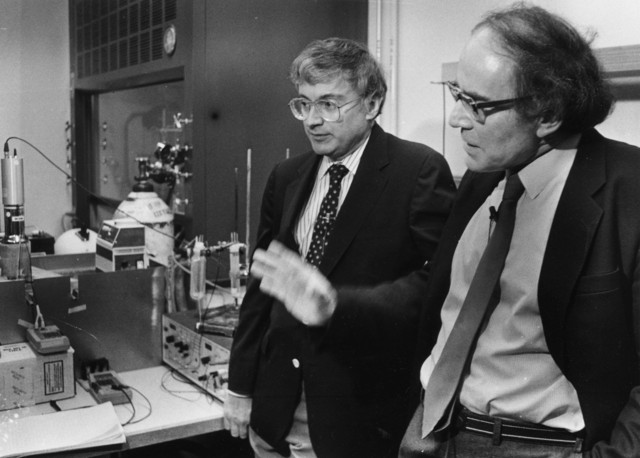
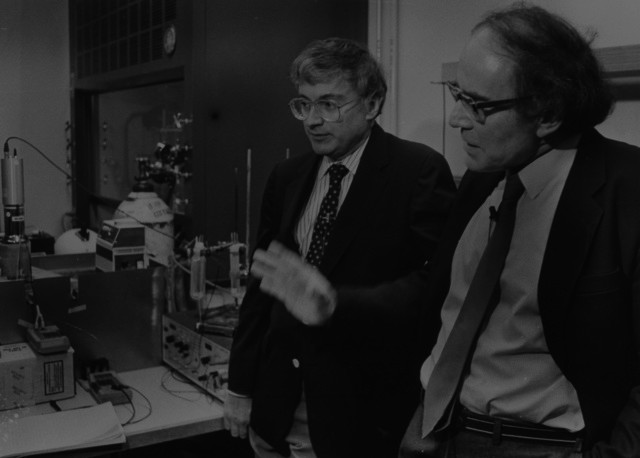
improved intro text, adjusted background image, removed obsolete images.

diff --git a/_includes/header.html b/_includes/header.html
@@ -1,13 +1,32 @@
-<header>
+<header style="height:1000px;">
     <div class="header-content">
         <div class="header-content-inner">
             <h1>Room 1113</h1>
             <hr>
             <p style="color:white;">
                 LENR (Low Energy Nuclear Reactions) a.k.a. "Cold Fusion" is the physical effect to describe
-                the safe release of nuclear energy at very low temperatures compared to the
-                millions of degrees necessary to generate nuclear energy in stars due to the well
-                understood fusion of hydrogen nuclei.
+                the safe release of nuclear energy due to the fusion of atomic nuclei
+                at relatively low temperatures (~1,000°C)
+            </p>
+
+            <p style="color:white;">
+                "Hot Fusion" generates nuclear energy in the interior of stars at very high temperatures (~1,000,000°C).
+            </p>
+
+            <p style="color:white;">
+                While the science behind "Hot Fusion" was thoroughly researched and well understood,
+                "Cold Fusion" is only being investigated by very few scientists and rejected as impossible by
+                the established scientific community since no existing theory is able to explain the phenomenon.
+            </p>
+
+            <p style="color:white;">
+                The lack of interest in the field is disappointing since the benefits of "Cold Fusion" as energy source
+                are huge. In contrast to "Hot Fusion" its single biggest advantage is the ability to extract nuclear energy
+                without creating hazardous radioactive waste.
+            </p>
+
+            <p style="color:white;">
+                However in recent years interest and research activity in the field has continuously intensified.
             </p>
             <!--
             <a href="#about" class="btn btn-primary btn-xl page-scroll">Find Out More</a>

diff --git a/_sass/_base.scss b/_sass/_base.scss
@@ -154,9 +154,11 @@ header {
     width: 100%;
     min-height: auto;
     @include background-cover;
+    background-color: black;
     background-position: center;
     background-image: url('../img/pons-fleischmann-cold-fusion.jpg');
     text-align: center;
+    opacity: 1;
     color: white;
     .header-content {
         position: relative;
@@ -195,7 +197,7 @@ header {
                 margin-left: auto;
                 margin-right: auto;
                 p {
-                    font-size: 18px;
+                    font-size: 15px;
                     max-width: 80%;
                     margin-left: auto;
                     margin-right: auto;
